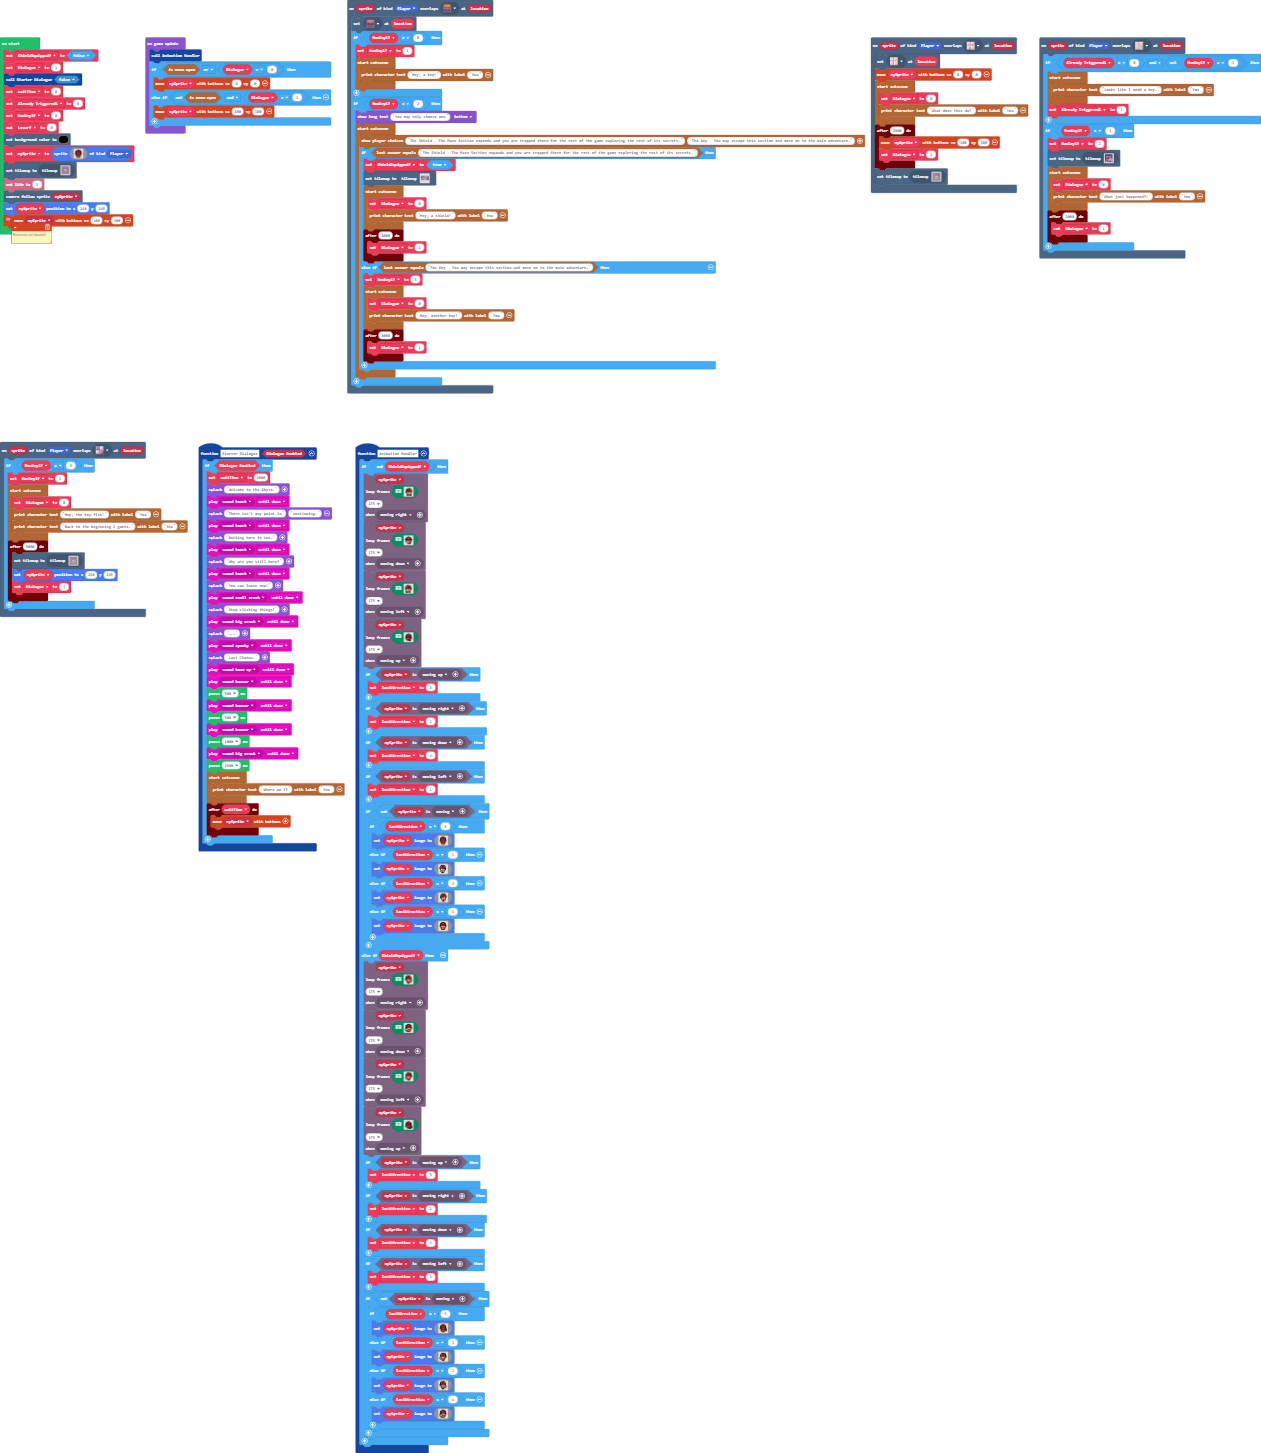
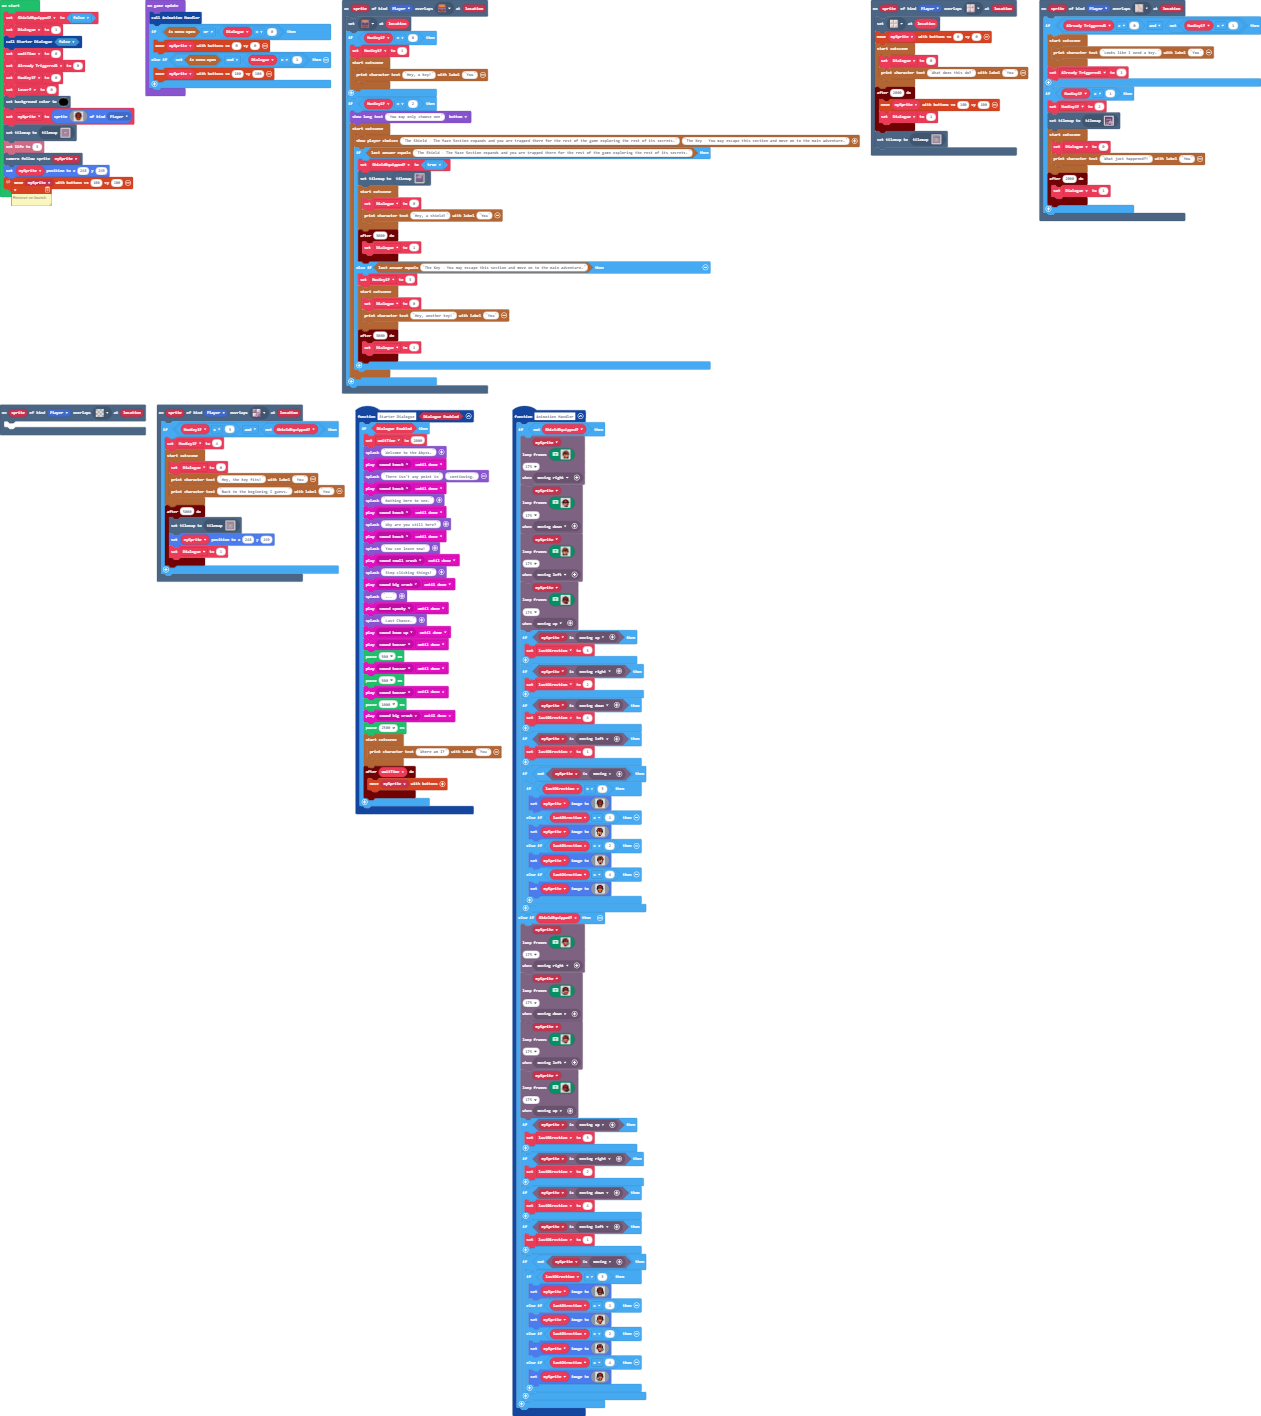
With most of the custom tiles finished, the game is at the point of almost full completion, the only thing left to add is the boss battle, maze functionality, and the alternate path to the battle from the key path in the maze.

Changed region(s): [[0.0, 0.0, 1.0, 1.0]]

diff --git a/tilemap.g.ts b/tilemap.g.ts
@@ -16,6 +16,10 @@ namespace myTiles {
     export const tile6 = image.ofBuffer(hex``);
     //% fixedInstance jres blockIdentity=images._tile
     export const tile7 = image.ofBuffer(hex``);
+    //% fixedInstance jres blockIdentity=images._tile
+    export const tile8 = image.ofBuffer(hex``);
+    //% fixedInstance jres blockIdentity=images._tile
+    export const tile9 = image.ofBuffer(hex``);
 
     helpers._registerFactory("tilemap", function(name: string) {
         switch(helpers.stringTrim(name)) {
@@ -124,42 +128,6 @@ namespace myTiles {
 ................................
 ................................
 `, [myTiles.transparency16,myTiles.tile1,sprites.dungeon.floorDark2,sprites.dungeon.greenOuterNorthWest,sprites.dungeon.greenOuterWest1,sprites.dungeon.greenOuterSouthEast,sprites.dungeon.greenOuterNorth0,sprites.dungeon.floorLight0,sprites.dungeon.greenOuterSouth0,sprites.dungeon.greenOuterNorthEast,sprites.dungeon.greenOuterEast0,sprites.dungeon.greenInnerSouthWest,sprites.dungeon.greenOuterWest2,sprites.dungeon.greenInnerNorthEast,sprites.dungeon.greenInnerSouthEast,sprites.dungeon.greenSwitchDown,sprites.dungeon.greenInnerNorthWest,sprites.dungeon.greenOuterEast2,sprites.dungeon.greenOuterSouthWest], TileScale.Sixteen);
-            case "level11":
[1 lines of base64/hex data omitted]
-.............................222222222222222222222222222........
-.............................2.........................2........
-.............................2.........................2........
-.............................2..2222...22222...2222...22........
-.............................2..2..2...2...2...2..2...2.........
-.............................2..2..2...2...2...2..2...2.........
-.............................2..2..2...2...2...2..2...2.........
-.............................2..2..2...2...2...2..2...2.........
-.....22222222222222222222....2..2..2...2...2...2..2...2.........
-.....2..................2....2..2..2...2...2...2..2...2.........
-.....2..................2....2..2..2...2...2...2..2...2.........
-.....2...2222222222222..2....2..2.22...22..2...2222...2.........
-.....2...2...........2..2....2..2.2.....2..2..........2.........
-.....2...2...........2..2....2..2.2.....2..2..........2.........
-.....2...2...........2..2....2..2.2.....2..222222222222.........
-.....22222...........2..2....2..2.2222222.......................
-...............2222222..222222..22222222222222..................
-...............2.............................2..................
-...............2.............................2..................
-...............2..2222222222222222222222222..2..................
-...............2..2....................2..2..2..................
-..22222222222222..2222222222222222222222..2..2..................
-..2.......................................2..2..................
-..2.......................................2..2..................
-..2..22222222222222222222222222222222222..2..2..................
-..2..2......22..................2......2..2..2..................
-..2..2......2...................2......2..2..2..................
-..2..22222222..2222222222..222..2......2..2..2..................
-..2............2........2..2.2..2......2..2..2..................
-..2............2........2..2.2..22222222222..2..................
-..22222222222222........2..2.2...............2..................
-........................2..2.2...............2..................
-........................2222.22222222222222222..................
-`, [myTiles.transparency16,myTiles.tile2,sprites.dungeon.darkGroundCenter,sprites.dungeon.purpleOuterNorthWest,sprites.dungeon.purpleOuterWest0,sprites.dungeon.purpleOuterWest1,sprites.dungeon.purpleOuterSouthEast,sprites.dungeon.purpleOuterNorth1,sprites.dungeon.floorLight2,sprites.dungeon.purpleOuterSouth1,sprites.dungeon.purpleOuterWest2,sprites.dungeon.purpleOuterNorth0,sprites.dungeon.purpleInnerNorthWest,sprites.dungeon.purpleOuterEast0,sprites.dungeon.purpleOuterSouthWest,sprites.dungeon.purpleInnerSouthEast,sprites.dungeon.purpleOuterNorth2,sprites.dungeon.purpleOuterEast2,sprites.dungeon.purpleInnerSouthWest,sprites.dungeon.purpleInnerNorthEast,sprites.dungeon.purpleOuterNorthEast,sprites.dungeon.purpleOuterSouth2,myTiles.tile6,sprites.dungeon.doorLockedWest,sprites.dungeon.floorMixed,myTiles.tile7], TileScale.Sixteen);
             case "level12":
[1 lines of base64/hex data omitted]
 .............................2..
@@ -230,6 +198,92 @@ namespace myTiles {
 ..22222222222222........2..2.2..
 ........................2..2.2..
 `, [myTiles.transparency16,sprites.dungeon.floorLight2,sprites.dungeon.purpleOuterNorth0,sprites.dungeon.purpleOuterNorth1,sprites.dungeon.purpleOuterEast0,sprites.dungeon.purpleOuterNorthEast,sprites.dungeon.purpleOuterWest0,sprites.dungeon.purpleInnerSouthWest,sprites.dungeon.purpleInnerSouthEast,sprites.dungeon.purpleOuterSouthWest,sprites.dungeon.purpleOuterSouth1,sprites.dungeon.purpleOuterNorthWest,sprites.dungeon.purpleInnerNorthWest,sprites.dungeon.purpleOuterSouthEast,sprites.dungeon.purpleOuterNorth2,sprites.dungeon.purpleOuterWest2,sprites.dungeon.darkGroundCenter,sprites.dungeon.purpleOuterWest1,sprites.dungeon.chestClosed,myTiles.tile5,sprites.dungeon.floorMixed,sprites.dungeon.purpleInnerNorthEast], TileScale.Sixteen);
+            case "level7":
+            case "level7":return tiles.createTilemap(hex`1000100000000000000000000000000000000000000000000000000000000000000000000000000000000000000000000000000000000000000000000000000000000000000000000000000000000000000000000000000000000000000000000000000000000000000000000000000000000000000000000000000000000000000000000000000000000000000000000000000000000000000000000000000000000000000000000000000000000000000000000000000000000000000000000000000000000000000000000000000000000000000000000000000000000000000000000000000000000000000000000000000000000000000000000000000000000000`, img`
+. . . . . . . . . . . . . . . . 
+. . . . . . . . . . . . . . . . 
+. . . . . . . . . . . . . . . . 
+. . . . . . . . . . . . . . . . 
+. . . . . . . . . . . . . . . . 
+. . . . . . . . . . . . . . . . 
+. . . . . . . . . . . . . . . . 
+. . . . . . . . . . . . . . . . 
+. . . . . . . . . . . . . . . . 
+. . . . . . . . . . . . . . . . 
+. . . . . . . . . . . . . . . . 
+. . . . . . . . . . . . . . . . 
+. . . . . . . . . . . . . . . . 
+. . . . . . . . . . . . . . . . 
+. . . . . . . . . . . . . . . . 
+. . . . . . . . . . . . . . . . 
+`, [myTiles.transparency16], TileScale.Sixteen);
+            case "level11":
[1 lines of base64/hex data omitted]
+.............................222222222222222222222222222........
+.............................2.........................2........
+.............................2.........................2........
+.............................2..2222...22222...2222...22........
+.............................2..2..2...2...2...2..2...2.........
+.............................2..2..2...2...2...2..2...2.........
+.............................2..2..2...2...2...2..2...2.........
+.............................2..2..2...2...2...2..2...2.........
+....................22222....2..2..2...2...2...2..2...2.........
+....................2...2....2..2..2...2...2...2..2...2.........
+....................2...2....2..2..2...2...2...2..2...2.........
+....................2...2....2..2.22...22..2...2222...2.........
+....................2...2....2..2.2.....2..2..........2.........
+....................2...2....2..2.2.....2..2..........2.........
+....................2...2....2..2.2.....2..22222..22222.........
+....................2...2....2..2.2222222......2..2.............
+...............222222...222222..2222222222222222..2.............
+...............2..................................2.............
+...............2..................................2.............
+...............2..2222222222222222222222222..222222.............
+...............2..2....................2..2..2..................
+..22222222222222..2222222222222222222222..2..2..................
+..2.......................................2..2..................
+..2.......................................2..2..................
+..2..22222222222222222222222222222222222..2..2..................
+..2..2......22..................2......2..2..2..................
+..2..2......2...................2......2..2..2..................
+..2..22222222..2222222222..222..2......2..2..2..................
+..2............2........2..2.2..2......2..2..2..................
+..2............2........2..2.2..22222222222..2..................
+..22222222222222........2..2.2...............2..................
+........................2..2.2...............2..................
+........................2222.22222222222222222..................
+................................................................
+................................................................
+................................................................
+................................................................
+................................................................
+................................................................
+................................................................
+................................................................
+................................................................
+................................................................
+................................................................
+................................................................
+................................................................
+................................................................
+................................................................
+................................................................
+................................................................
+................................................................
+................................................................
+................................................................
+................................................................
+................................................................
+................................................................
+................................................................
+................................................................
+................................................................
+................................................................
+................................................................
+................................................................
+................................................................
+................................................................
+`, [myTiles.transparency16,myTiles.tile2,sprites.dungeon.darkGroundCenter,sprites.dungeon.purpleOuterNorthWest,sprites.dungeon.purpleOuterWest0,sprites.dungeon.purpleOuterWest1,sprites.dungeon.purpleOuterSouthEast,sprites.dungeon.purpleOuterNorth1,sprites.dungeon.floorLight2,sprites.dungeon.purpleOuterSouth1,sprites.dungeon.purpleOuterWest2,sprites.dungeon.purpleInnerNorthWest,sprites.dungeon.purpleOuterEast0,sprites.dungeon.purpleOuterSouthWest,sprites.dungeon.purpleInnerSouthEast,sprites.dungeon.purpleOuterNorth2,sprites.dungeon.purpleOuterEast2,sprites.dungeon.purpleInnerSouthWest,sprites.dungeon.purpleInnerNorthEast,sprites.dungeon.purpleOuterNorthEast,sprites.dungeon.purpleOuterSouth2,myTiles.tile6,sprites.dungeon.doorLockedWest,sprites.dungeon.floorMixed,myTiles.tile7,myTiles.tile8,myTiles.tile9,sprites.dungeon.purpleSwitchUp,sprites.dungeon.collectibleInsignia], TileScale.Sixteen);
         }
         return null;
     })
@@ -251,6 +305,10 @@ namespace myTiles {
             case "tile6":return tile6;
             case "myTile4":
             case "tile7":return tile7;
+            case "chestOpened0":
+            case "tile8":return tile8;
+            case "chestOpened1":
+            case "tile9":return tile9;
         }
         return null;
     })

diff --git a/main.ts b/main.ts
@@ -882,8 +882,11 @@ scene.onOverlapTile(SpriteKind.Player, sprites.dungeon.floorLight5, function (sp
         })
     }
 })
+scene.onOverlapTile(SpriteKind.Player, assets.tile`transparency16`, function (sprite, location) {
+	
+})
 scene.onOverlapTile(SpriteKind.Player, sprites.dungeon.floorMixed, function (sprite, location) {
-    if (HasKey1 == 3) {
+    if (HasKey1 == 3 && !(ShieldEquipped)) {
         HasKey1 = 4
         story.startCutscene(function () {
             Dialogue = 0
